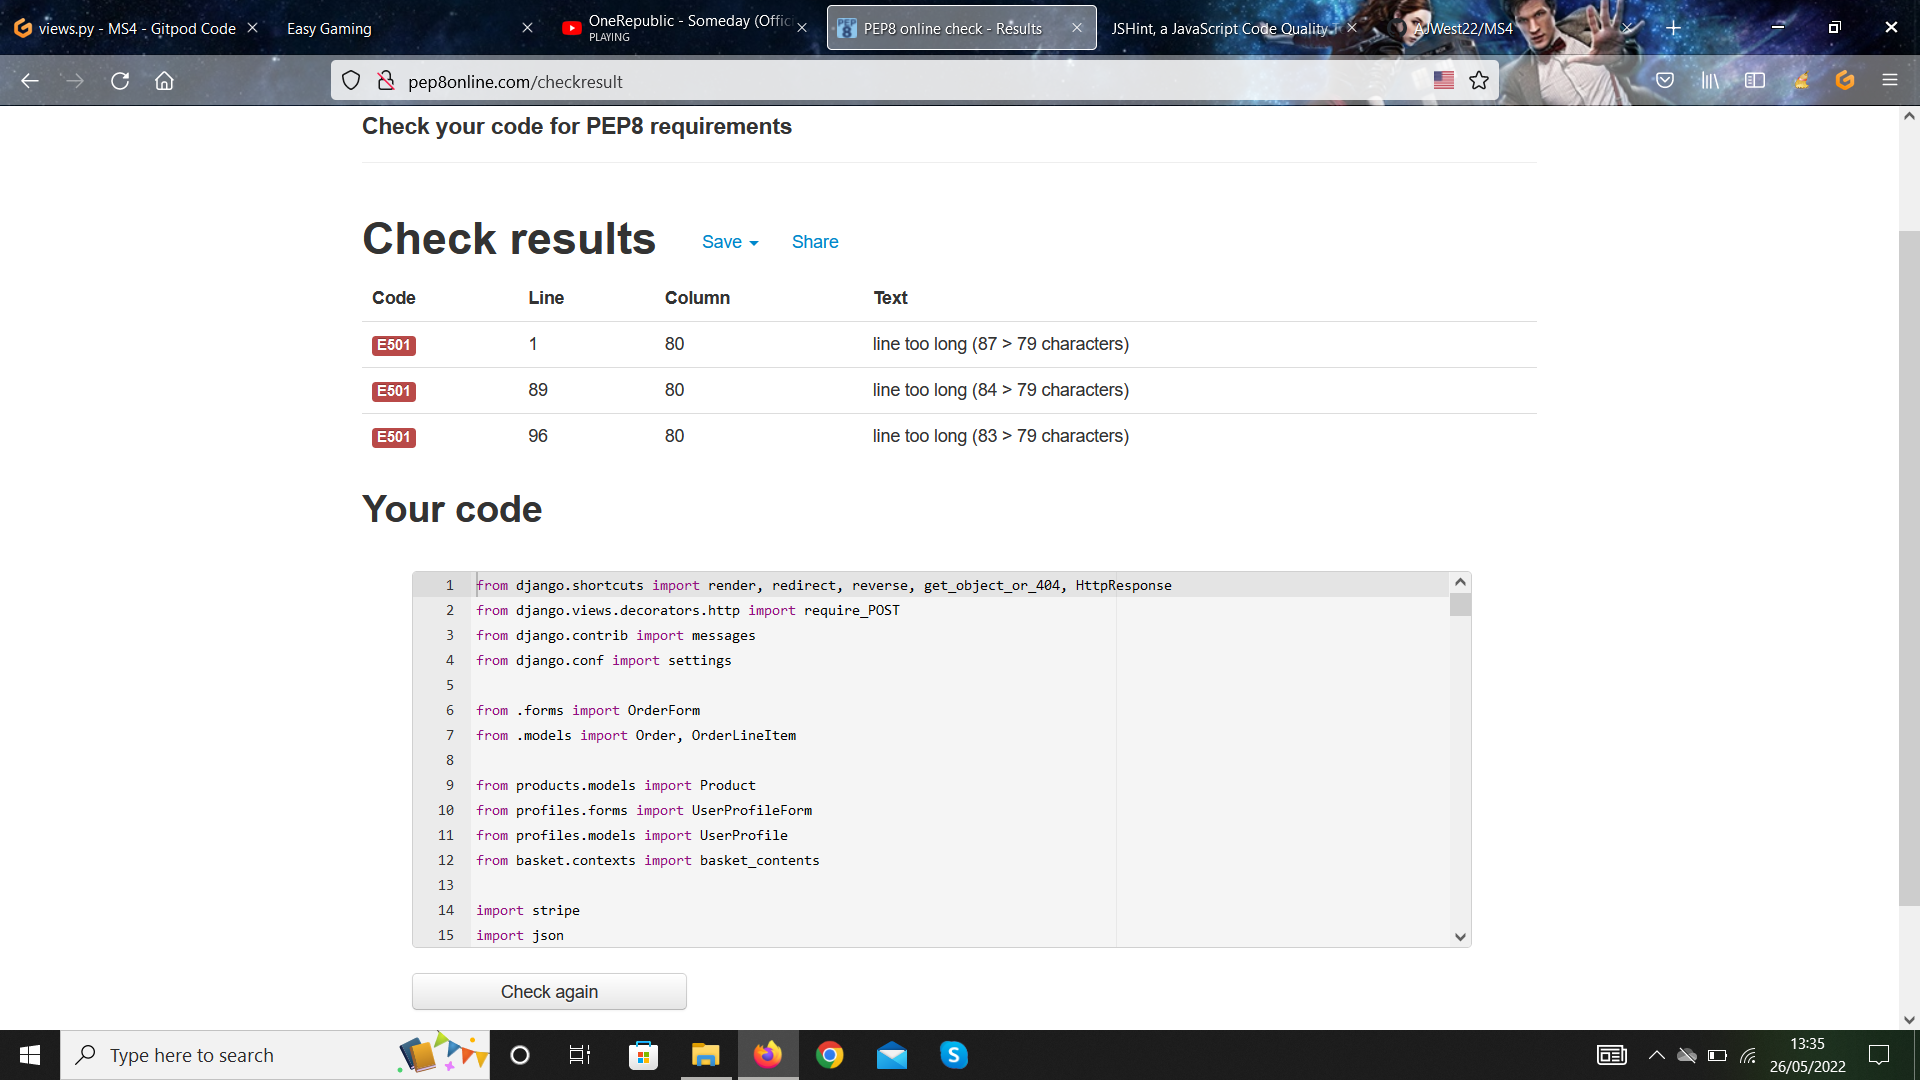
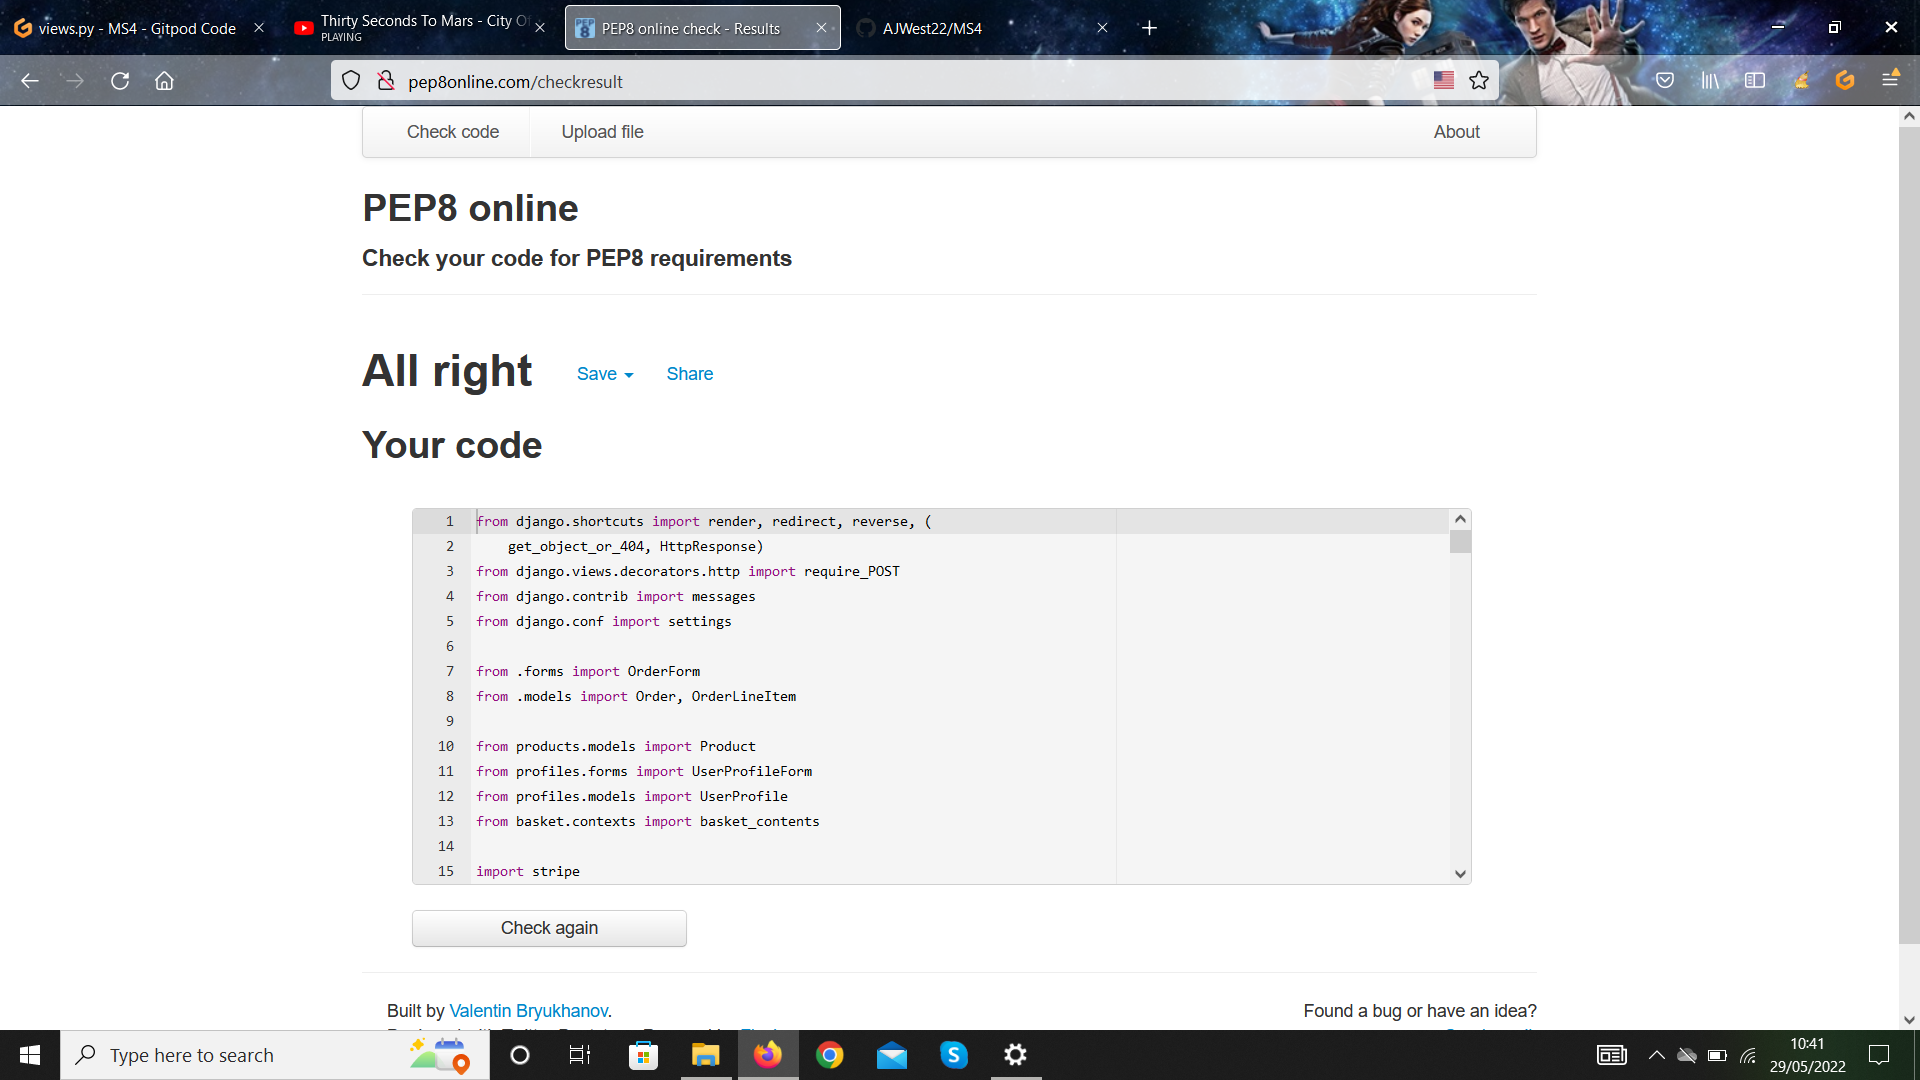
Update python files formatting in blog and checkout apps

diff --git a/checkout/models.py b/checkout/models.py
@@ -12,8 +12,10 @@ from profiles.models import UserProfile
 
 class Order(models.Model):
     order_number = models.CharField(max_length=32, null=False, editable=False)
-    user_profile = models.ForeignKey(UserProfile, on_delete=models.SET_NULL,
-                                     null=True, blank=True, related_name='orders')
+    user_profile = models.ForeignKey(
+        UserProfile, on_delete=models.SET_NULL,
+            null=True, blank=True, related_name='orders'
+        )
     full_name = models.CharField(max_length=50, null=False, blank=False)
     email = models.EmailField(max_length=254, null=False, blank=False)
     phone_number = models.CharField(max_length=20, null=False, blank=False)
@@ -24,11 +26,23 @@ class Order(models.Model):
     street_address2 = models.CharField(max_length=80, null=True, blank=True)
     county = models.CharField(max_length=80, null=True, blank=True)
     date = models.DateTimeField(auto_now_add=True)
-    delivery_cost = models.DecimalField(max_digits=6, decimal_places=2, null=False, default=0)
-    order_total = models.DecimalField(max_digits=10, decimal_places=2, null=False, default=0)
-    grand_total = models.DecimalField(max_digits=10, decimal_places=2, null=False, default=0)
+    delivery_cost = models.DecimalField(
+        max_digits=6, decimal_places=2,
+            null=False, default=0
+    )
+    order_total = models.DecimalField(
+        max_digits=10, decimal_places=2, 
+            null=False, default=0
+    )
+    grand_total = models.DecimalField(
+        max_digits=10, decimal_places=2, 
+            null=False, default=0
+    )
     original_basket = models.TextField(null=False, blank=False, default='')
-    stripe_pid = models.CharField(max_length=254, null=False, blank=False, default='')
+    stripe_pid = models.CharField(
+        max_length=254, null=False, 
+            blank=False, default=''
+    )
 
     def _generate_order_number(self):
         """
@@ -41,9 +55,11 @@ class Order(models.Model):
         Update grand total each time an item is added,
         accounts for delivery if needed.
         """
-        self.order_total = self.lineitems.aggregate(Sum('lineitem_total'))['lineitem_total__sum'] or 0
+        self.order_total = self.lineitems.aggregate(Sum('lineitem_total'))(
+            ['lineitem_total__sum'] or 0)
         if self.order_total < settings.FREE_DELIVERY_THRESHOLD:
-            self.delivery_cost = self.order_total * settings.STANDARD_DELIVERY_PERCENTAGE / 100
+            self.delivery_cost = (
+                self.order_total * settings.STANDARD_DELIVERY_PERCENTAGE / 100)
         else:
             self.delivery_cost = 0
         self.grand_total = self.order_total + self.delivery_cost
@@ -63,11 +79,22 @@ class Order(models.Model):
 
 
 class OrderLineItem(models.Model):
-    order = models.ForeignKey(Order, null=False, blank=False, on_delete=models.CASCADE, related_name='lineitems')
-    product = models.ForeignKey(Product, null=False, blank=False, on_delete=models.CASCADE)
+    order = models.ForeignKey(
+        Order, null=False, blank=False, 
+            on_delete=models.CASCADE, related_name='lineitems'
+    )
+    product = models.ForeignKey(
+        Product, null=False,
+            blank=False, on_delete=models.CASCADE
+    )
     product_quantity = models.CharField(max_length=2, null=True, blank=True)
-    quantity = models.IntegerField(null=False, blank=False, default=0)
-    lineitem_total = models.DecimalField(max_digits=6, decimal_places=2, null=False, blank=False, editable=False)
+    quantity = models.IntegerField(
+        null=False, blank=False, default=0
+    )
+    lineitem_total = models.DecimalField(
+        max_digits=6, decimal_places=2,
+            null=False, blank=False, editable=False
+    )
 
     def save(self, *args, **kwargs):
         """

diff --git a/checkout/webhook_handler.py b/checkout/webhook_handler.py
@@ -70,8 +70,10 @@ class StripeWH_Handler:
                 profile.default_country = shipping_details.address.country
                 profile.default_postcode = shipping_details.address.postal_code
                 profile.default_town_or_city = shipping_details.address.city
-                profile.default_street_address1 = shipping_details.address.line1
-                profile.default_street_address2 = shipping_details.address.line2
+                profile.default_street_address1 = (
+                    shipping_details.address.line1)
+                profile.default_street_address2 = (
+                    shipping_details.address.line2)
                 profile.default_county = shipping_details.address.state
                 profile.save()
 
@@ -101,8 +103,9 @@ class StripeWH_Handler:
         if order_exists:
             self._send_confirmation_email(order)
             return HttpResponse(
-                content=f'Webhook received: {event["type"]} | SUCCESS: Verified order is now in database',
-                status=200)
+                content=f'Webhook received: {event["type"]} | (
+                    SUCCESS: Verified order is now in database',)
+                    status=200)
         else:
             order = None
             try:
@@ -128,15 +131,6 @@ class StripeWH_Handler:
                             quantity=item_data,
                         )
                         order_line_item.save()
-                    else:
-                        for size, quantity in item_data['items_by_size'].items():
-                            order_line_item = OrderLineItem(
-                                order=order,
-                                product=product,
-                                quantity=quantity,
-                                product_size=size,
-                            )
-                            order_line_item.save()
             except Exception as e:
                 if order:
                     order.delete()

diff --git a/checkout/views.py b/checkout/views.py
@@ -1,4 +1,5 @@
-from django.shortcuts import render, redirect, reverse, get_object_or_404, HttpResponse
+from django.shortcuts import render, redirect, reverse, (
+    get_object_or_404, HttpResponse)
 from django.views.decorators.http import require_POST
 from django.contrib import messages
 from django.conf import settings
@@ -86,14 +87,16 @@ def checkout(request):
 
             # saves data to users profile
             request.session['save_info'] = 'save-info' in request.POST
-            return redirect(reverse('checkout_complete', args=[order.order_number]))
+            return redirect(reverse('checkout_complete', (
+                args=[order.order_number])))
         else:
             messages.error(request, 'There was an error with your form. \
                 Please double check your information.')
     else:
         basket = request.session.get('basket', {})
         if not basket:
-            messages.error(request, "There's nothing in your basket at the moment")
+            messages.error(request, "There's nothing in your basket(
+                 at the moment"))
             return redirect(reverse('products'))
 
         current_basket = basket_contents(request)
